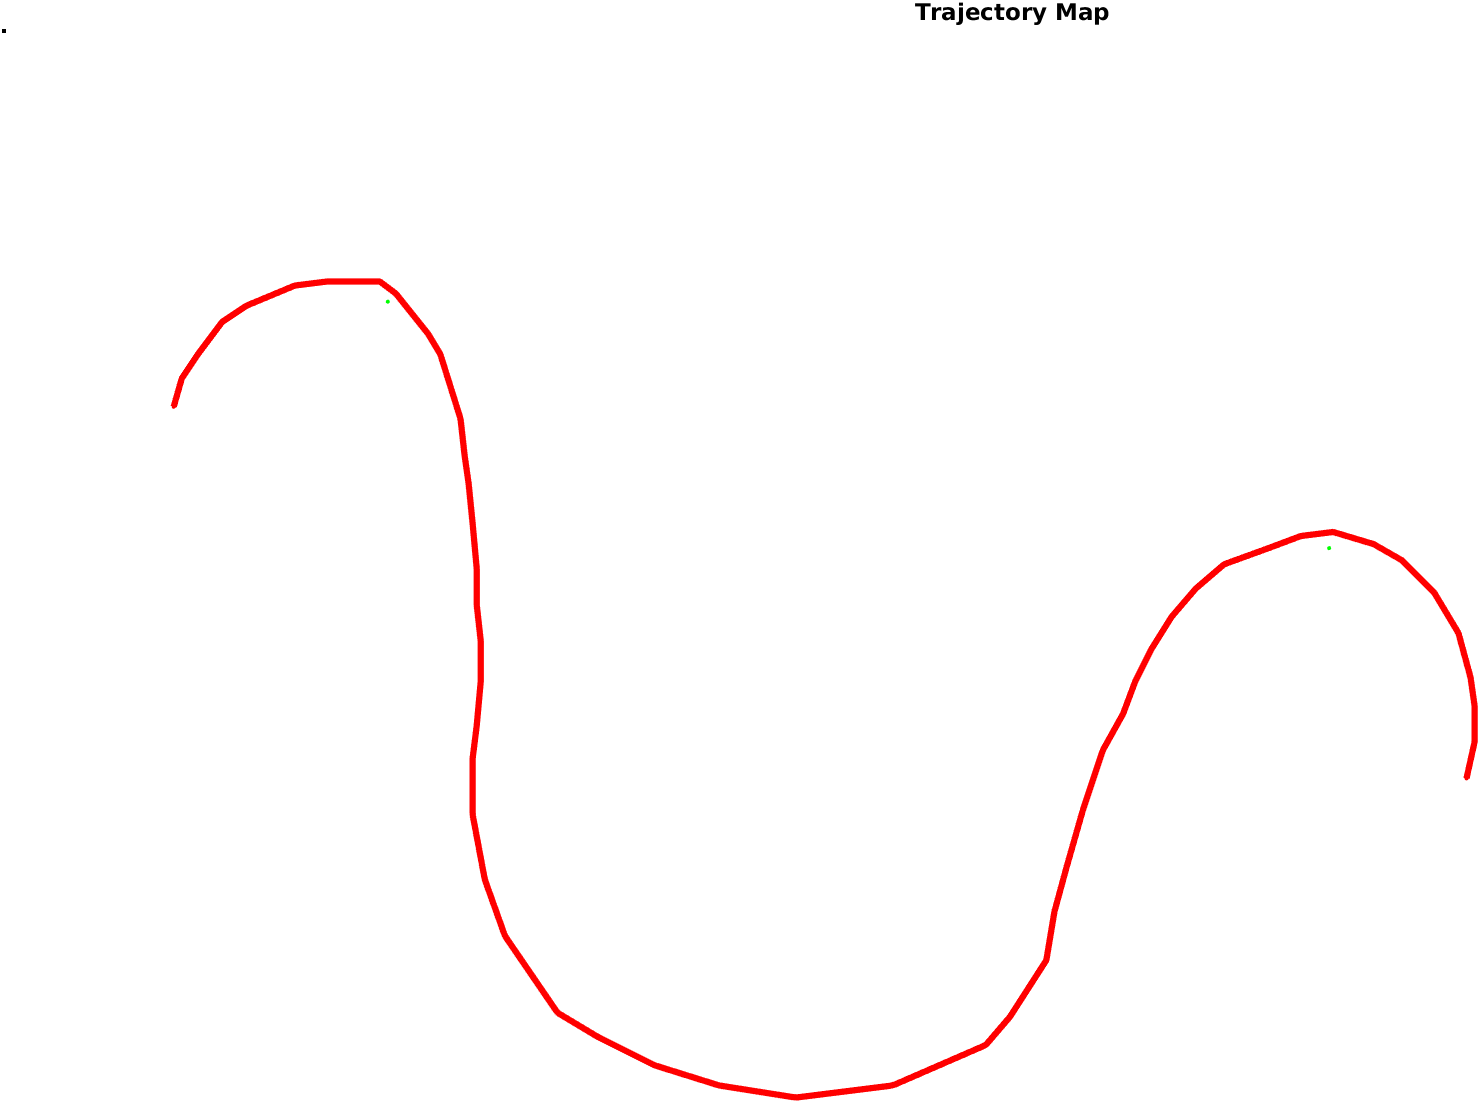
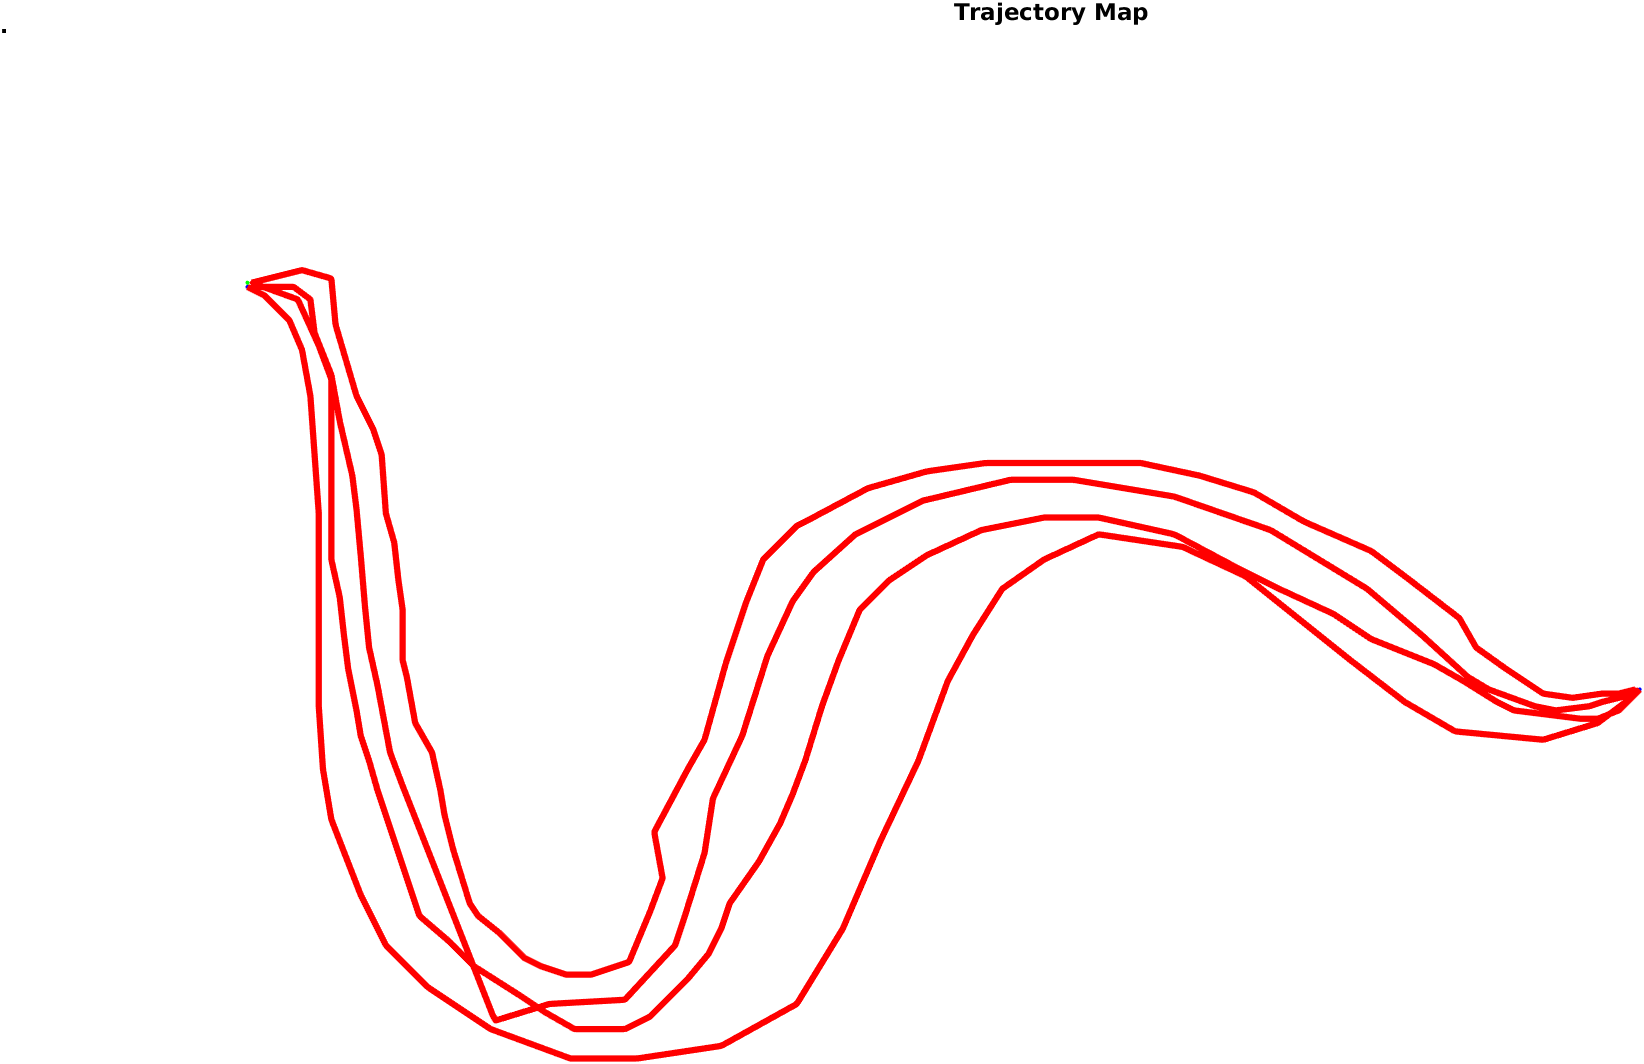
V1.1

diff --git a/ElasticFML_2D.m b/ElasticFML_2D.m
@@ -7,13 +7,14 @@ addpath('algorithms');
 addpath('test');
 addpath('examples');
 addpath('fm2tools');
+addpath('data')
 
 %% Setup simulated demos
 N = 1000;
 t = linspace(0, 10, N);
 t = reshape(t, [N, 1]);
 % Create your own data
-n=1; %Number of data to be acquired (can be modified to more than 1)
+n=4; %Number of data to be acquired (can be modified to more than 1)
 data = [];
 [x1,constrains] = CaptureData(n);
 

diff --git a/README.md b/README.md
@@ -1,29 +1,149 @@
-# ElMapMatlab
- Implementation of Elastic Maps for Trajectory Generation in MATLAB
- 
- Uses a general version of the convex optimization of elastic maps as found here: https://github.com/brenhertel/LfD-Perturbations
- 
- To generate an elastic map reproduction, call the `ElasticMap` function, passing the data for the map to be modeled on, the data weights, stretching and beening constants, initial guess of the map, and any constraints. For help, see the example in https://github.com/brenhertel/ElMapMatlab/blob/main/elmap_test.m.
+# **Elastic Fast Marching Learning from Demonstrations.**
 
-If you have any questions, please contact Brendan Hertel (brendan_hertel@student.uml.edu).
+<p align="center">
+  <img src="./Images/Group 36.jpg" height=200 />
+</p>
 
-If you use the code present in this repository, please cite the following papers:
+In this repository we present the code for a novel method for learning skills from human demonstrations. Our method, ___Elastic Fast Marching Learning (EFML)___, combines ideas from [Elastic Maps](https://github.com/brenhertel/ElMapTrajectories)--a Learning from Demonstration (LfD) method based on a mesh of springs--and [Fast Marching Learning](https://github.com/AdrianPrados/FastMarchingLearning)--an LfD method based on velocity fields. These two methods each use real-world physical phenomena, spring energy and light velocity, to find reproductions with desirable properties such as the capability to be trained using single or multiple demonstrations, meeting any number of initial, final, or via-point constraints, and finding smooth reproductions. The algorithm displays advantages in terms of precision, smoothness, and speed. We validate our method in several simulated and real-world environments, compare against Elastic Maps and Fast Marching Learning as well as other contemporary methods, and perform demonstrations and capture reproductions on a real-world robot.
+
+# Installation
+To be used on your device, follow the installation steps below.
+
+**Requierements:**
+- Matlab 2021b or higher
+
+
+## Install from source
+Firstly, clone the repository in your system.
+```bash
+git clone https://github.com/AdrianPrados/ElasticFastMarchingLearning.git
 ```
-@inproceedings{hertel2022ElMap,
+# Folder structure
+
+The algortihm is composed by two combination of two methods, allowing the users to taking demonstrations for an specific task, generate a solution smooth that is able to solve the generalization of that task. The code is divided in diferente folders:
+
+[```LASA_dataset```](./LASA_dataset/) folder contains the data for the handwriting human motion [LASA dataset](https://www.epfl.ch/labs/lasa/datasets/) to do the experiments in 2D.
+
+[```RAIL```](./RAIL/) folder contains the data dataset generted by [RAIL](https://www.raillab.org/) for 3D manipulation task. the folder is divided in 4 tasks. For each task exists the same task applied to ADAM robot (for example ```PressingAdam```) that represents the data adapted to the ADAM robot.
+
+[```RealExperiment```](./RealExperiment/) folder contains the data used and generated for the real experiments in the ADAM robot.
+
+[```cvx-a64```](./cvx-a64/) folder contains the [CVX](http://cvxr.com/cvx/) model that allows to solve convex optimization is a faster way. CVX turns Matlab into a modeling language, allowing constraints and objectives to be specified using standard Matlab expression syntax
+
+[```algorithms```](./algorithms/) and [```fm2tools```](./fm2tools/)folders contains scripts that allows Fast Marching Learning method work properly.
+
+[```elmap```](./elmap/) folders contains the Elastic Map implementation that allows it to work properly.
+
+[```test```](./test/) folder contains the test to check everything works well.
+
+
+# Executing program
+The EFML method is applicable in both 2D an 3D environments. For that purpose 2 different scripts has been created that allows the user to use the algorithm in both cases.
+
+## 2D Environments
+To work in 2D, the script to be launch is:
+```matlab
+ElasticFML_2D.m
+```
+This method allow to work with synthetic data generated by an specific equation or with real data generated by the users.
+
+```matlab
+N = 1000;
+t = linspace(0, 10, N);
+t = reshape(t, [N, 1]);
+% Create your own data (uncoment if you want to generate your own data)
+n=1; %Number of data to be acquired (can be modified to more than 1)
+data = [];
+[x1,constrains] = CaptureData(n);
+
+for j=1:n
+    indices_originales{j} = linspace(1, size(x1{1,j}, 2), N);
+    traj = interp1(x1{1,j}', indices_originales{1,j});
+    data{j} = traj;
+end
+
+%Simulated data (uncoment if you want an specific synthetic data)
+x1 = -0.005*abs((t-5).^3) + 0.1 * sin(t) - 0.5;
+n=1;
+traj = [t, x1];
+traj = abs(traj * 100) + 1;
+data = traj;
+constrains = [1, 100; 1000 100];
+```
+For the real data, the user has to capture the data using the ```CaptureData``` function. This function allows to capture the data using the mouse. The user has to click in the initial point, the final point and the via points. The number of via points can be modified in the ```CaptureData``` function. The data is stored in the ```x1``` variable. The constrains are stored in the ```constrains``` variable. The constrains are stored in a matrix where the first column is the time and the second column is the position.
+
+<p align="center">
+  <img src="./Images/Group 41.jpg" height=250 />
+</p>
+
+
+## 3D Environments
+To work in 3D, the script to be launch is:
+```matlab
+ElasticFML_3D.m
+```
+For 3D environments, it is necessary to create a matrix of a specified size where fast marching Learning can work first. Such an array can contain the objects that are considered as obstacles in the environment.
+
+```matlab
+%% Loading the base map and the obstacles
+% Follows the nex estructure: Wo(Y,X,Z) 
+Wo_size = [180,180,180]; % Matrix for our robot ADAM, it can be change
+Wo=ones(Wo_size);
+Wo(1,:,:)=1;
+Wo(Wo_size(1),:,:)=1;
+Wo(:,1,:)=1;
+Wo(:,Wo_size(2),:)=1;
+Wo(:,:,1)=1;
+Wo(:,:,Wo_size(3))=1; 
+
+%% Obstacles can be added to the environemnt
+% Wo(78.5:99.5, 41:66, 75:95)=0; % Box obstacle
+Wo(50:90,16:41,1:100)=0; % Robot body (always necessary to don't have autocolisions)
+% Wo(10:130,41:120,1:75)=0; % Table
+```
+The demonstrations in this case are acquired kinaesthetically by means of the robot's own arm or by means of a previously chosen dataset:
+```matlab
+matFiles = dir('/home/adrian/Escritorio/ElasticMaps/ElMapMatlab/RAIL/PressingAdam/Pressing5/*.mat'); %Filtered data to optime velocity of FML
+matFiles2 = dir('/home/adrian/Escritorio/ElasticMaps/ElMapMatlab/RAIL/PressingAdam/Pressing5NoFilter/*.mat'); %No filetred data to compare
+```
+This algorithm allows the user to generate paths with different constraints. To use those constrains is necessary to add the index and where is that constraints (the coordinate in 3D).
+
+```matlab
+constrains = [pathFML(1,1) pathFML(2,1) pathFML(3,1);ConstraintX,ConstraintY,ConstraintZ;pathFML(1,end) pathFML(2,end) pathFML(3,end)];
+nodes = ElasticMap3D(data, wei, stretch, bend, [1, constraintIndex, length(pathFML)], constrains,n,pathFML',1000);
+```
+
+The code was written and tested on MATLAB 2021b in Ubuntu 20.04. The final pick and place task using the ADAM robot in a real environment is presented in this [video](https://youtu.be/K1i92bSSyWI).
+
+# Citation
+This work has been done by [Adrián Prados](http://roboticslab.uc3m.es/roboticslab/people/prados) and [Brendan Hertel](https://github.com/brenhertel). Both authors has contributed equally.
+
+If you have any question about the algorithm presented, please contact with Adrián Prados (aprados@pa.uc3m.es) and Brendan Hertel (brendan_hertel@student.uml.edu). If you use this code or the data please cite the following papers:
+
+### Paper for Fast Marching Learning
+```bibtex
+@article{prados2023kinesthetic,
+  title={Kinesthetic Learning Based on Fast Marching Square Method for Manipulation},
+  author={Prados, Adri{\'a}n and Mora, Alicia and L{\'o}pez, Blanca and Mu{\~n}oz, Javier and Garrido, Santiago and Barber, Ram{\'o}n},
+  journal={Applied Sciences},
+  volume={13},
+  number={4},
+  pages={2028},
+  year={2023},
+  publisher={MDPI}
+}
+```
+### Paper for  Elastic Maps
+```bibtex
+@inproceedings{hertel2022robot,
   title={Robot Learning from Demonstration Using Elastic Maps},
-  author={Hertel, Brendan and Pelland, Matthew and S. Reza Ahmadzadeh},
-  booktitle={IEEE/RSJ International Conference on Intelligent Robots and Systems (IROS)},
+  author={Hertel, Brendan and Pelland, Matthew and Ahmadzadeh, S Reza},
+  booktitle={2022 IEEE/RSJ International Conference on Intelligent Robots and Systems (IROS)},
+  pages={7407--7413},
   year={2022},
   organization={IEEE}
 }
 ```
-and
-```
-@inproceedings{hertel2023confidence,
-  title={Confidence-Based Skill Reproduction Through Perturbation Analysis},
-  author={Hertel, Brendan and S. Reza Ahmadzadeh},
-  booktitle={20th International Conference on Ubiquitous Robots (UR)},
-  year={2023},
-  organization={IEEE}
-}
-```
+### Paper for the Elastic Fast Marching Learning
+In construction :construction_worker:
+
